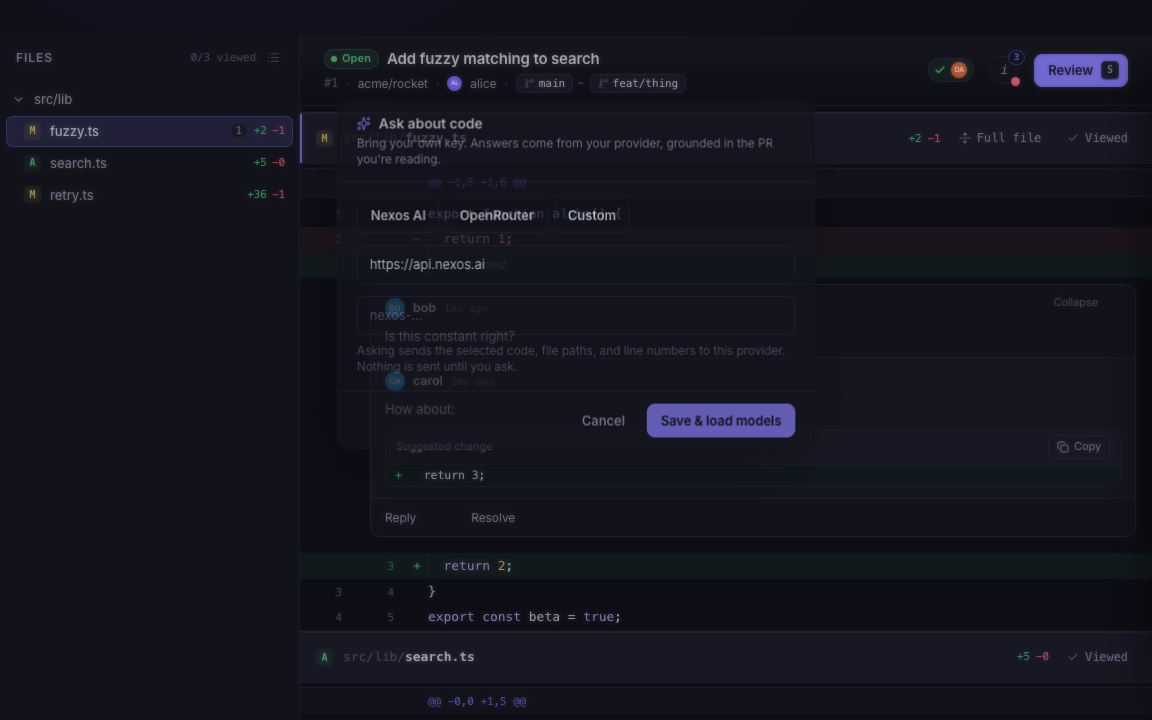
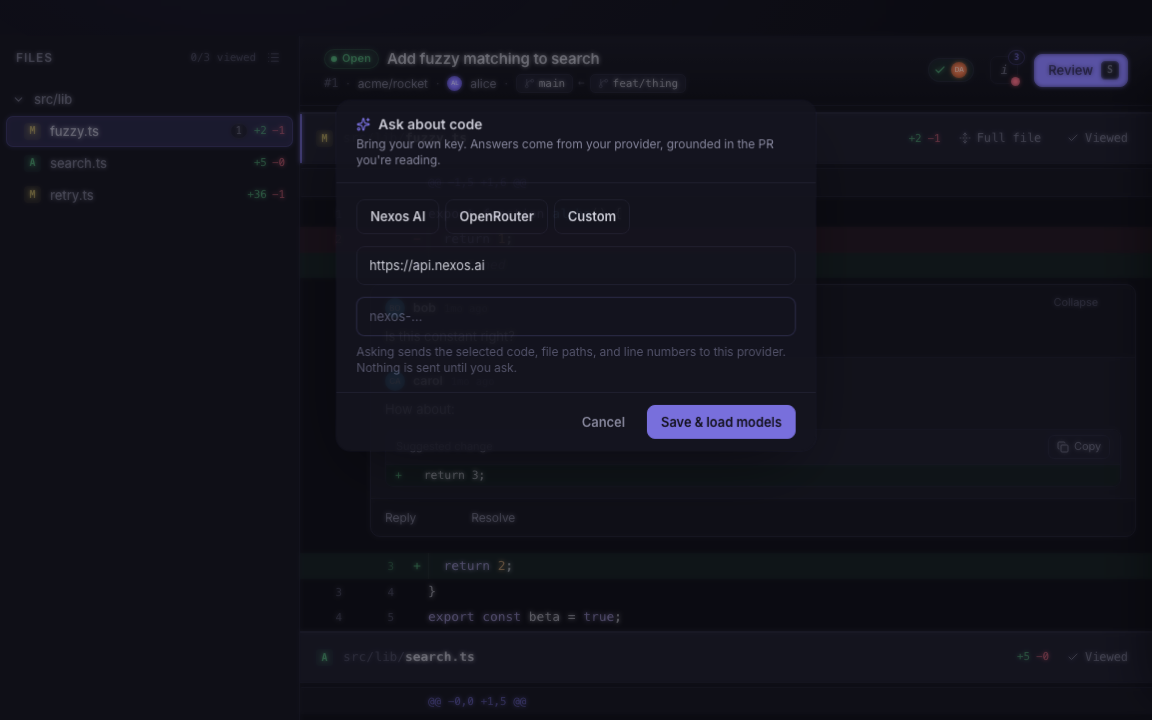
test(ai): re-capture the screens on the inline note surface
The ask drawer became an inline AI note (feat/ai-ask rework); the capture
scenes follow — the whole-PR note pins above the first file, the line note
sits under its row, and a new scene captures promote-to-comment: the answer
prefilled in the normal composer as an editable draft.

diff --git a/apps/desktop/e2e/capture/ai.capture.ts b/apps/desktop/e2e/capture/ai.capture.ts
@@ -3,9 +3,10 @@
  * the mocked bridge — exactly like the ai-setup/ai-ask specs — and
  * screenshots each user-visible state of the feature: `a` with no key
  * (setup dialog is the onboarding), the model picker after a key validates,
- * the saved-key state, palette discoverability, the Ask panel over the whole
- * PR and over a cursor line, the pending spinner, a rendered answer, and the
- * provider-error state. Output: capture-out/ai/*.png. Run just this file:
+ * the saved-key state, palette discoverability, the inline AI note over the
+ * whole PR and under a cursor line, the pending spinner, a rendered answer,
+ * promote-to-comment, and the provider-error state. Output:
+ * capture-out/ai/*.png. Run just this file:
  *
  *   pnpm exec playwright test --config playwright.capture.config.ts ai.capture.ts
  */
@@ -125,6 +126,7 @@ test("asking: pending spinner, then the rendered answer", async ({ page }) => {
   await setupApp(page, { ...CONFIGURED, aiAnswer: ANSWER });
   await openReview(page);
 
+  await page.keyboard.press("j");
   await page.keyboard.press("a");
   const panel = askPanel(page);
   const input = panel.getByLabel("Question");
@@ -163,6 +165,13 @@ test("asking: pending spinner, then the rendered answer", async ({ page }) => {
   }, ANSWER);
   await expect(panel.getByText("deprecation note")).toBeVisible();
   await shot(page, "08-ask-answer");
+
+  // Promote: the answer becomes an editable draft in the normal composer.
+  await panel.getByRole("button", { name: "Start comment from this" }).click();
+  const editor = page.getByRole("textbox", { name: "Add a review comment…" });
+  await expect(editor).toBeVisible();
+  await expect(editor).toContainText("retry knob");
+  await shot(page, "10-promote-composer");
 });
 
 test("provider errors surface inline, never a dead end", async ({ page }) => {
